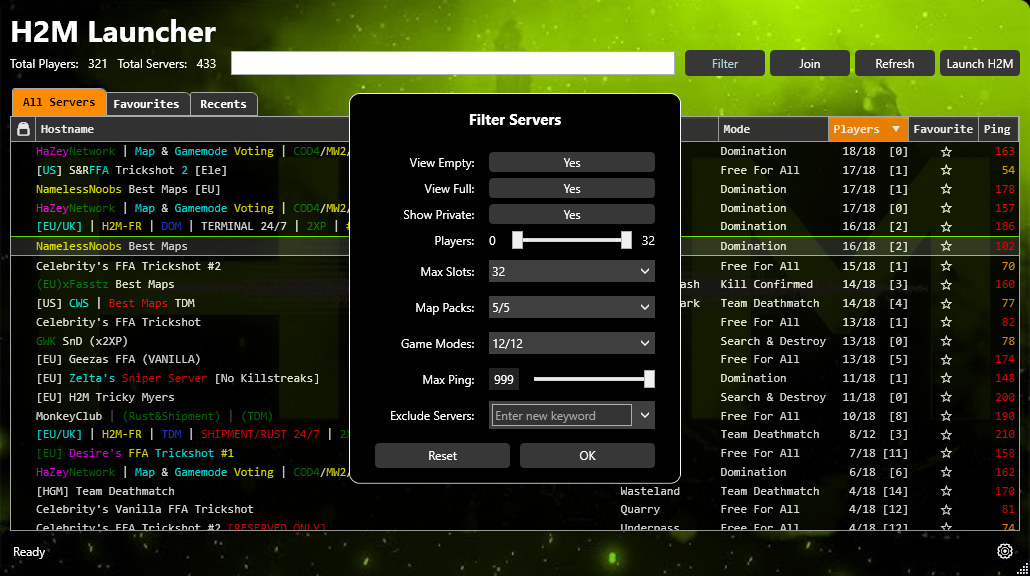
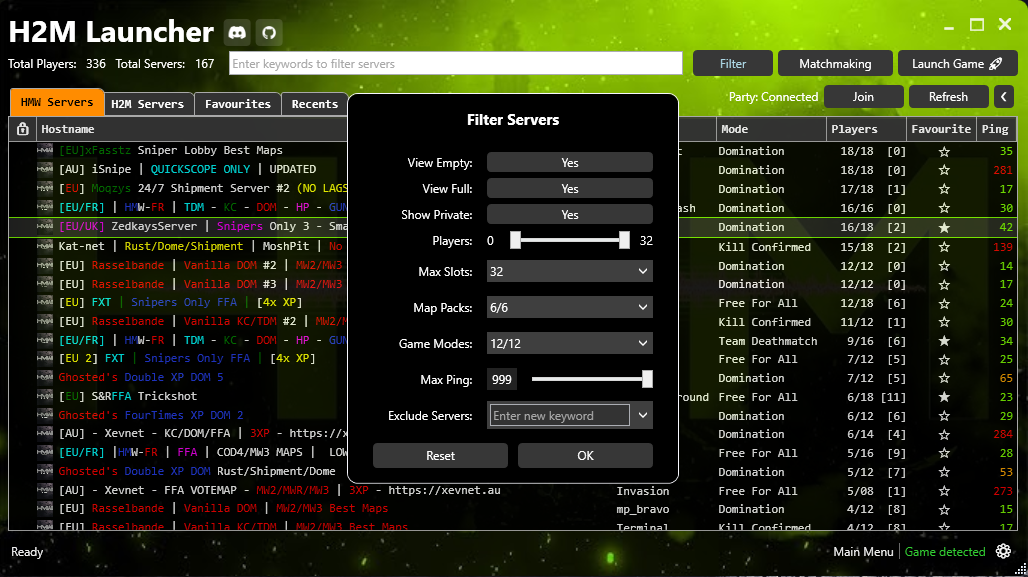
Release/2 5 0 (#175)
* Update readme

* review fixes

* Change port to 9100
Change version to 2.5.0-beta

* update docker port

diff --git a/H2MLauncher.Core/Services/LauncherService.cs b/H2MLauncher.Core/Services/LauncherService.cs
@@ -25,7 +25,7 @@ namespace H2MLauncher.Core.Services
 
         // IMPORTANT: Set this to the same pre-release label used in GitHub
         // (appended like '-beta') or empty when this is a normal release!
-        public static readonly string CurrentPreReleaseLabel = "";
+        public static readonly string CurrentPreReleaseLabel = "beta";
         public static string CurrentVersion
         {
             get

diff --git a/H2MLauncher.UI/Properties/AssemblyInfo.cs b/H2MLauncher.UI/Properties/AssemblyInfo.cs
@@ -13,7 +13,7 @@ using System.Windows;
 
 
 
-[assembly: AssemblyVersion("2.4.3.0")]
-[assembly: AssemblyFileVersion("2.4.3.0")]
+[assembly: AssemblyVersion("2.5.0.0")]
+[assembly: AssemblyFileVersion("2.5.0.0")]
 [assembly: AssemblyTitle("Better H2M-Launcher")]
 [assembly: SupportedOSPlatform("windows")]

diff --git a/README.md b/README.md
@@ -1,6 +1,6 @@
 # H2M Launcher
 
-**The H2M in-game server browser has a few bugs where it does not display the whole server list or does not join the correct server. The launcher aims to address these issues and provide more features.**
+**This launcher aims to provide features like server queueing, friends and party system to HorizonMW. The project originally started out to address some issues of the in-game server browser in the legacy H2M.**
 
 [<img src="https://img.shields.io/github/v/release/Bowhza/H2M-Launcher">](https://github.com/Bowhza/H2M-Launcher/releases)
 ![GitHub Downloads (all assets, all releases)](https://img.shields.io/github/downloads/Bowhza/H2M-Launcher/total)
@@ -16,12 +16,21 @@
 
 ## Features
 
+**Table of Contents**
+
+- [Server Browser](#server-browser)
+- [Matchmaking](#matchmaking)
+- [Server Queueing](#server-queueing)
+- [Party System](#party-system)
+- [Add Friends](#add-friends)
+- [Game Detection](#game-detection)
+- [Settings & Other](#settings--other)
+
 ### Server Browser
 
-- Launch H2M-Mod.
+- Launch HorizonMW.
 - Displays the server count and the total players.
 - Join other servers without having to disconnect first.
-- Utilizes the **[IW4MAdmin API](https://master.iw4.zip/instance/)** to get accurate and up to date server information.
 - Sort servers by **name, map, mode, player count, and ping**.
 - **Additional filter options:**
   - View empty, full, or private servers.
@@ -33,7 +42,6 @@
   - Filter out any keywords from the hostname, for instance, "trickshot" to filter out trickshot servers.
 - Add servers to favourites and view recently played servers.
 - Support for private servers, you can enter the password from the launcher.
-- Filters out dead/zombie servers that do not respond to UDP packets being sent.
 - Reconnect to last server shortcut (see [Shortcuts](#shortcuts)).
 - Game overlay (see [Shortcuts](#shortcuts)).
 
@@ -55,19 +63,46 @@
 - Takes privileged slots into account (Currently manually configured, request more servers to be supported!)
 - Ability to force join without leaving the queue if it fails.
 - Join the queue while playing on another server and automatically connect when the slot is free.
+- Queue together
 
 <img src="./Images/Queue.png">
 
 ### Party System
 
-<img src="./Images/Party-Header.png">
-
-- Invite your friends to join the party by copying the party ID. 
+- Invite your friends to join the party by copying the party ID or sending them an invite. 
 - The party leader controls the session for everyone.
-- Supports joining, [Queueing](#server-queueing) and [Matchmaking](#matchmaking).
+- Supports Joining, [Queueing](#server-queueing) and [Matchmaking](#matchmaking).
 - Ability to kick members or promote someone to party leader.
+- Change the **Party Privacy** to control who can join your party:
+
+    <img src="./Images/Party-Privacy.png">
+
+  - **Open**: Everyone who has the id can join
+  - **Friends**: Only friends can join
+  - **Closed**: Only users that are invitied can join
+
 
 <img src="./Images/Party.png">
+
+
+### Add Friends
+
+Each user gets assigned a randomly generated user name on first connection to the hub. The user is tied to a key stored locally. Create a party to find out your user name or id and share it with your friends:
+
+![](./Images/UserInfo.png)
+
+There are two ways to add friends to your friends list:
+- You can add friends from the party
+
+  ![](./Images/Party-Add-Friend.png)
+
+- Or you can search for their user name or ID
+  > **NOTE**: *You can not find users by their player name, only by their randomly generated user name.*
+
+  ![](./Images/Search-Friends.png)
+
+Pending friend requests will appear in the **Requests** tab and can be accepted or rejected.
+> **NOTE:** *After rejecting a friend request they can not send you further requests. So if you accidentally rejected someone, you'll have to send them a friend request.*
 
 ### Game Detection
 
@@ -92,14 +127,14 @@
 
 <img src="./Images/Directory.png">
 
-- **If you want to store the launcher elsewhere**, you can set the path to the `h2m-mod.exe` in the settings.
+- **If you want to store the launcher elsewhere**, you can set the path to the `hmw-mod.exe` in the settings or start the game so it can be detected.
 - Click the settings icon in the bottom right corner of the launcher, and you should see the `Game Location` option that you can change.
 
 <img src="./Images/Settings-Modal.png">
 
-3. Before using the server browser make sure H2M is running. You can press `Launch H2M` to run the game.
+1. Before using the server browser make sure HMW is running. You can press `Launch Game` to run the game.
 
-4. Find a server you want to play on, select it, and press the join button. The H2M window should automatically be set as the foreground window.
+2. Find a server you want to play on, select it, and press the join button. The HMW window should automatically be set as the foreground window.
 
 ## Shortcuts
 
